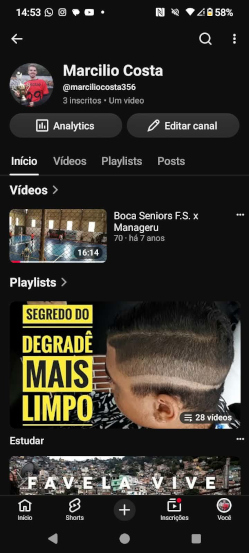
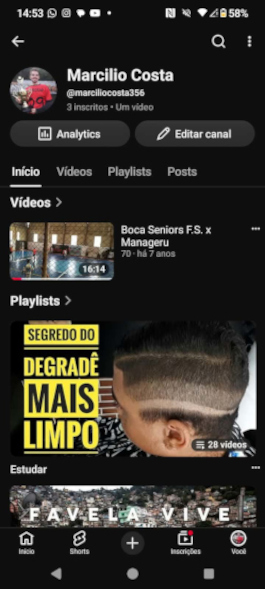
Responsividade no projeto

diff --git a/DESAFIOS/DESAFIO-07-IFRAMES/redesocial.html b/DESAFIOS/DESAFIO-07-IFRAMES/redesocial.html
@@ -9,13 +9,13 @@
 </head>
 <body>
     <div>
-        <iframe id="celular"  src="frame-iphone.png" frameborder="0" sandbox="sandbox" referrerpolicy="no-referrer"></iframe>
+        <img id="celular" src="frame-iphone.png" alt="iphone">
         <iframe id="dentro" name="frame" frameborder="0" src="tela-home.jpg" sandbox="sandbox" referrerpolicy="no-referrer"></iframe>
         <a href="tela-home.jpg" target="frame"><img class="home" src="logo-home.jpg" alt="home"></a>
         <a href="tela-youtube.jpg" target="frame"><img class="yt" src="logo-youtube.jpg" alt="yt"></a>
-        <a href="tela-github.jpg" target="frame"><img class="git" src="logo-github.jpg" alt="git"></a>
+        <a href="telagithub.jpg" target="frame"><img class="git" src="logo-github.jpg" alt="git"></a>
         <a href="tela-instagram.jpg" target="frame"><img class="insta" src="logo-instagram.jpg" alt="insta"></a>
-        <a href="tela-twitter.jpg" target="frame"><img class="tt" src="logo-twitter.jpg" alt="tt"></a>
+        <a href="tela-tt.jpg" target="frame"><img class="tt" src="logo-twitter.jpg" alt="tt"></a>
         <a href="tela-facebook.jpg" target="frame"><img class="face" src="logo-facebook.jpg" alt="face"></a>
     </div>
 </body>

diff --git a/DESAFIOS/DESAFIO-07-IFRAMES/redesocial.css b/DESAFIOS/DESAFIO-07-IFRAMES/redesocial.css
@@ -17,14 +17,23 @@ body {
     height: 640px;
 }
 
+#celular:hover {
+    background-color: none;
+}
+
 #dentro {
     display: block;
     position: absolute;
-    height: 73vh;
-    width: 19.8%;
-    top: 14.4%;
-    left: 39.2vw;
+    height: 75.5vh;
+    width: 280px;
+    top: 14%;
+    left: 39.8%;
     
+}
+
+img#celular:hover {
+    background-color: rgba(222, 184, 135, 0);
+    border: 0px;
 }
 
 img {
@@ -90,7 +99,3 @@ img:hover {
     top: 500px;
 }
 
-iframe > frame {
-    width: 300px;
-    height: 600px;
-}
